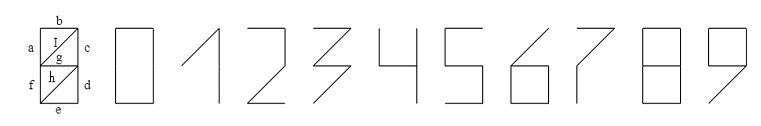
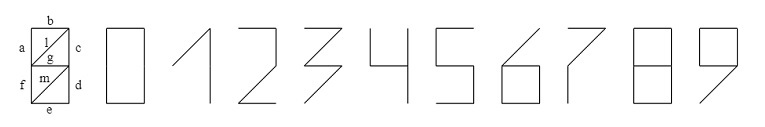
Ura cycold_1

Changed region(s): [[0.2418, 0.2143, 0.9974, 0.8333], [0.0, 0.119, 0.2418, 0.9048]]

diff --git a/src/pages/FirstTest/FirstTest.tsx b/src/pages/FirstTest/FirstTest.tsx
@@ -12,13 +12,14 @@ const FirstTest = () => {
   const { seconds } = useTimer(new Date(Date.now() + 60 * 60 * 1000));
   const navigate = useNavigate();
   const [variant, setVariant] = useState<Control1>({});
+  const varSegments: string[] = ['a', 'b', 'c', 'd', 'e', 'f', 'm', 'g', 'l'];
 
   useEffect(() => {
     const variant = Math.floor(Math.random() * 30) + 1; // от 1 до 30
     const randomVar: Control1 = {
       variant: variant,
       num: Math.floor(Math.random() * (1023 - 513 + 1)) + 513, // от 513 до 1023
-      segment: String.fromCharCode(97 + Math.floor(Math.random() * 10)), // от  0 до 9 в буквах a to j
+      segment: varSegments[Math.floor(Math.random() * 8)], // от  0 до 8
       p: variant % 3 === 0 ? 7 : (variant % 3) * 2 + 1, // 3 5 7
       bias: Math.floor(Math.random() * 7), // 0 до 6
     };
